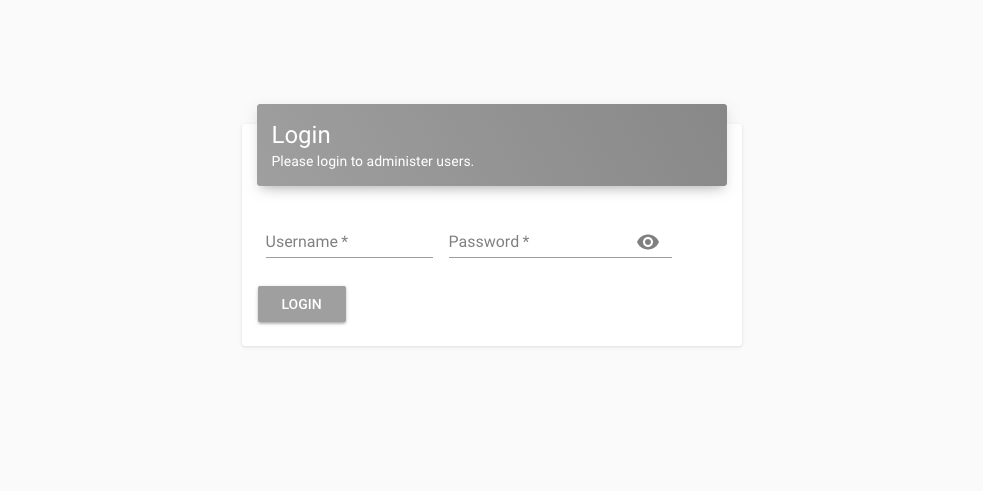
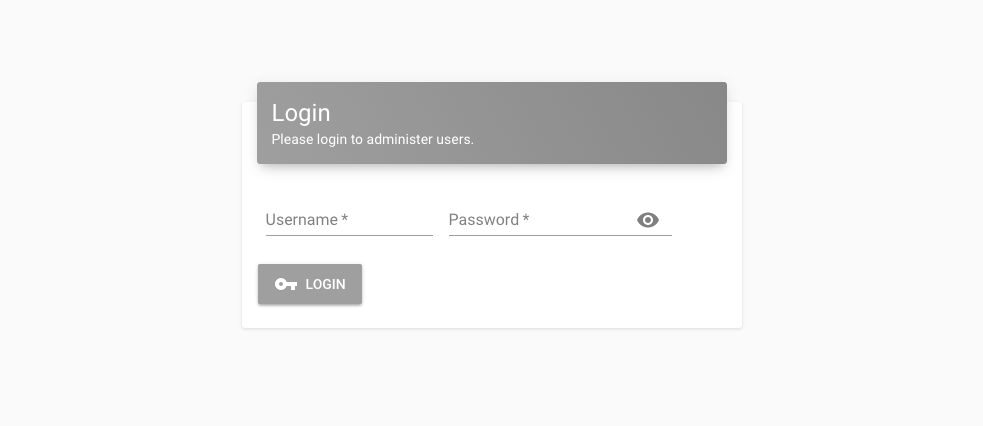
Ongoing ...

diff --git a/src/components/login/index.js b/src/components/login/index.js
@@ -4,11 +4,11 @@ import PropTypes from 'prop-types';
 import { withStyles } from 'material-ui/styles';
 import Card, { CardHeader, CardContent } from 'material-ui/Card';
 import Fade from 'material-ui/transitions/Fade';
-import LoginContainer from '../../containers/login/';
+import LoginForm from './form/';
 import styles from './styles';
 
 function Login( props ) {
-  const { classes, isAuthenticated } = props;
+  const { classes, isAuthenticated, onLogin } = props;
 
   if ( isAuthenticated ) {
     return <Redirect to="/" />;
@@ -28,7 +28,7 @@ function Login( props ) {
             subheader="Please login to administer users."
           />
           <CardContent>
-            <LoginContainer />
+            <LoginForm onLogin={onLogin} />
           </CardContent>
         </Card>
       </Fade>
@@ -39,6 +39,7 @@ function Login( props ) {
 Login.propTypes = {
   classes: PropTypes.object.isRequired,
   isAuthenticated: PropTypes.bool.isRequired,
+  onLogin: PropTypes.func.isRequired,
 };
 
 export default withStyles( styles )( Login );

diff --git a/src/components/user/index.js b/src/components/user/index.js
@@ -2,6 +2,8 @@ import React from 'react';
 import PropTypes from 'prop-types';
 import { withStyles } from 'material-ui/styles';
 import Card, { CardHeader, CardContent } from 'material-ui/Card';
+import Avatar from 'material-ui/Avatar';
+import PersonAddIcon from 'material-ui-icons/PersonAdd';
 import Fade from 'material-ui/transitions/Fade';
 import Form from './form';
 import styles from './styles';
@@ -14,6 +16,11 @@ function Index( props ) {
       <Fade in>
         <Card className={classes.card}>
           <CardHeader
+            avatar={
+              <Avatar aria-label="Users">
+                <PersonAddIcon />
+              </Avatar>
+            }
             className={classes.cardHeader}
             classes={{
               title: classes.cardTitle,

diff --git a/src/components/users/index.js b/src/components/users/index.js
@@ -2,7 +2,9 @@ import React from 'react';
 import PropTypes from 'prop-types';
 import { withStyles } from 'material-ui/styles';
 import Card, { CardHeader, CardContent } from 'material-ui/Card';
+import Avatar from 'material-ui/Avatar';
 import Fade from 'material-ui/transitions/Fade';
+import PeopleIcon from 'material-ui-icons/People';
 import Table from './table';
 import styles from './styles';
 
@@ -14,6 +16,11 @@ function Index( props ) {
       <Fade in>
         <Card className={classes.card}>
           <CardHeader
+            avatar={
+              <Avatar aria-label="Users">
+                <PeopleIcon />
+              </Avatar>
+            }
             className={classes.cardHeader}
             classes={{
               title: classes.cardTitle,

diff --git a/src/containers/login/index.js b/src/containers/login/index.js
@@ -2,13 +2,17 @@ import React from 'react';
 import PropTypes from 'prop-types';
 import { connect } from 'react-redux';
 import { loginUser } from '../../actions/authenticationActions';
-import LoginForm from '../../components/login/form/';
+import Login from '../../components/login/';
 
-const LoginContainer = ( { loginUserConnect } ) => (
-  <LoginForm onLogin={creds => loginUserConnect( creds )} />
+const LoginContainer = ( { isAuthenticated, loginUserConnect } ) => (
+  <Login
+    isAuthenticated={isAuthenticated}
+    onLogin={creds => loginUserConnect( creds )}
+  />
 );
 
 LoginContainer.propTypes = {
+  isAuthenticated: PropTypes.bool.isRequired,
   loginUserConnect: PropTypes.func.isRequired,
 };
 

diff --git a/src/containers/app/index.js b/src/containers/app/index.js
@@ -4,7 +4,7 @@ import { connect } from 'react-redux';
 import { Route, withRouter } from 'react-router-dom';
 import { withStyles } from 'material-ui/styles';
 import Header from '../../containers/header';
-import Login from '../../components/login/';
+import Login from '../../containers/login/';
 import User from '../../containers/user';
 import Users from '../../containers/users';
 import withRoot from '../../withRoot';

diff --git a/src/components/login/form/index.js b/src/components/login/form/index.js
@@ -128,6 +128,7 @@ class LoginForm extends React.Component {
           <Button
             disabled={!this.state.usernameValid || !this.state.passwordValid}
             variant="raised"
+            mini
             color="primary"
             className={classes.button}
             onClick={e => this.onSubmit( e )}

diff --git a/README.md b/README.md
@@ -1,5 +1,9 @@
 <img src="https://raw.githubusercontent.com/andyfrith/react-portal/master/ReactPortal1.png" alt="React Portal" align="center" />
 <br />
+<img src="https://raw.githubusercontent.com/andyfrith/react-portal/master/ReactPortal2.png" alt="React Portal" align="center" />
+<br />
+<img src="https://raw.githubusercontent.com/andyfrith/react-portal/master/ReactPortal3.png" alt="React Portal" align="center" />
+<br />
 
 # react-portal
 
